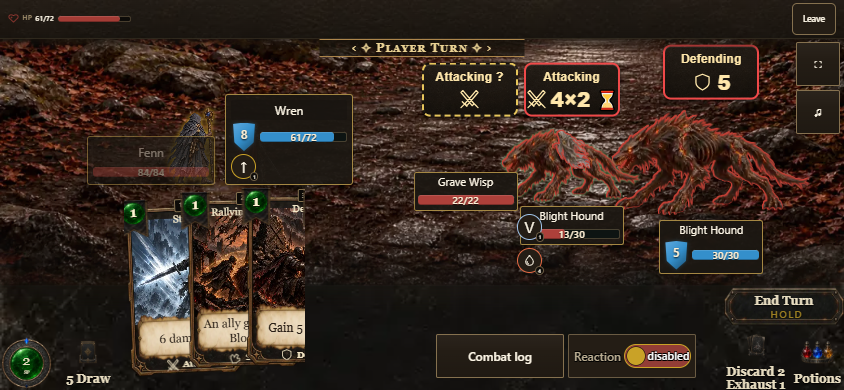
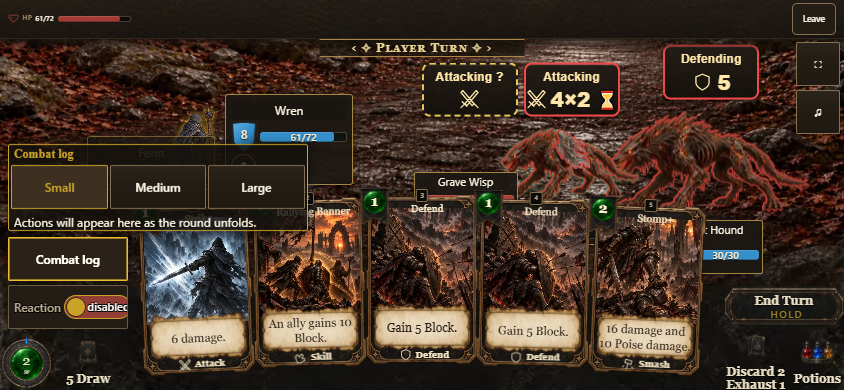
Keep landscape hands wide and the combat log onscreen

diff --git a/src/ui/components/combatTools.js b/src/ui/components/combatTools.js
@@ -36,19 +36,21 @@ export function mountCombatTools(combatEl, { state, onToggle, onViewChange }) {
     const style = getComputedStyle(root);
     const gap = parseFloat(style.getPropertyValue('--combat-tools-gap')) || 8;
     const compact = innerHeight <= 480 && innerWidth >= 600;
-    const width = compact ? 260 : parseFloat(style.getPropertyValue('--combat-tools-physical-width')) || 136;
+    const width = compact ? 120 : parseFloat(style.getPropertyValue('--combat-tools-physical-width')) || 136;
     const localWidth = anchorLocalBox(VIEWPORT_ORIGIN, { left: 0, top: 0, width, height: 0 }, { zoom });
     root.style.width = `${localWidth.width}px`;
-    const reserve = anchorLocalBox(VIEWPORT_ORIGIN, { left: 0, top: 0, width: width + gap + (compact ? 148 : 4), height: 0 }, { zoom });
+    // Short landscape already gives the hand left/right footer rails. Put the
+    // tools in the left rail instead of subtracting its width a second time.
+    const reserve = anchorLocalBox(VIEWPORT_ORIGIN, { left: 0, top: 0, width: compact ? 0 : width + gap + 4, height: 0 }, { zoom });
     combatEl.style.setProperty('--combat-tools-reserve', `${reserve.width}px`);
     const footerHost = combatEl.querySelector('.combat-action-row');
     const footer = footerHost?.getBoundingClientRect();
     // Landscape side rails span the whole hand. Dock above their actual
     // buttons, not the transparent container that reaches into the battlefield.
     const footerButtons = [...(footerHost?.querySelectorAll('button, [role="button"]') || [])]
-      .map(button=>button.getBoundingClientRect()).filter(rect=>rect.width && rect.height);
-    const bottom = compact ? combatEl.getBoundingClientRect().bottom - 12
-      : (footerButtons.length ? Math.min(...footerButtons.map(rect=>rect.top)) : footer?.top ?? innerHeight) - gap;
+      .map(button=>button.getBoundingClientRect()).filter(rect=>rect.width && rect.height
+        && (!compact || rect.left < innerWidth / 2));
+    const bottom = (footerButtons.length ? Math.min(...footerButtons.map(rect=>rect.top)) : footer?.top ?? innerHeight) - gap;
     const localDock = anchorLocalBox(combatEl, { left: 0, top: bottom - root.getBoundingClientRect().height, width: 0, height: 0 }, { zoom });
     root.style.top = `${localDock.top}px`;
     const menu = [...combatEl.querySelectorAll('.topbar button')].reduce((max, node) => Math.max(max, node.getBoundingClientRect().bottom), 0);

diff --git a/src/content/changelog.generated.js b/src/content/changelog.generated.js
@@ -8,7 +8,7 @@ export const GENERATED_CHANGELOG = Object.freeze([
     "group": "2026-10-09",
     "summary": "Attached enemy targets and visible player details",
     "detail": "Keep compact enemy selection cells on their sprites, shrink them before moving away, and preserve neighboring target order. Show enemy name and health below their bodies and place the player's name, level, health and live combat details beside the character, clear of cards. Pack co-op details without collisions and keep landscape combat tools out of targeting space.",
-    "build": "0.7.1.1182",
+    "build": "0.7.1.1184",
     "pullRequest": 1773,
     "url": "https://github.com/cehinds/AshenSpire/pull/1773"
   },

diff --git a/styles/combat-layers.css b/styles/combat-layers.css
@@ -125,6 +125,9 @@
 }
 @media (max-height: 480px) and (min-width: 600px) {
   :root .combat[data-layout='formation'] .combat-tools {
-    right: calc(148px / var(--ui-zoom,1)); grid-template-columns: 1fr 1fr;
+    right: auto; left: calc(8px / var(--ui-zoom,1)); grid-template-columns: 1fr;
+  }
+  :root .combat[data-layout='formation'] .combat-tools .combat-log-panel {
+    left: 0; right: auto;
   }
 }

diff --git a/docs/qa/attached-combat-details-20261009/README.md b/docs/qa/attached-combat-details-20261009/README.md
@@ -10,7 +10,7 @@ independent of these controls.
 
 Selection cells use 48–64 physical pixels, preserve enemy order and keep full
 accessible names/HP. Native button focus updates the shared keyboard cursor.
-Landscape tools use a compact lower row and reserve space in the hand scroller.
+Landscape tools use the left footer rail without subtracting the hand width twice.
 Clipped card overflow is not a visible collision.
 
 ## Review and verification
@@ -28,12 +28,22 @@ labels and plate reservation height. Final review found no actionable blocker.
 - The crowd fixture gives each cloned enemy a unique knowledge-action serial;
   duplicate serials are correctly rejected by the engine, not bypassed.
 
-Final package **0.7.1.1182**, source digest **e56f8d6209**, passed all 12
+Initial package **0.7.1.1182**, source digest **e56f8d6209**, passed all 12
 responsive layouts and legal keyboard card plays. The packaged phone run also
 passed three sequential card plays and empty-hand resize/draw stability. Reports
 and representative screenshots are stored beside this record. External art
 verification passed 314 checks, shipped-alias verification 12, build identity 9,
 and the PR receipt 2. Hosted checks and promotion are reported separately in the PR.
+
+The hosted 800x465 tutorial subsequently exposed a five-card hand collapse:
+subtracting the landscape dock's complete right offset left capacity for only
+one card, so all cards shared an x coordinate. The final correction places tools
+in the left footer rail and reserves no additional hand width. The unchanged
+Counter/Escape browser interaction then passed. Independent review verified
+five distinct cards, reachable controls, and an onscreen working log drawer at
+844x390 and 800x465. In very short co-op landscape, cards can still obscure some
+enemy name/HP plates according to the requested cards-over-selection layering;
+target buttons and player details remain reachable.
 The posed crowd uses 200 HP solely to survive interaction checks. Screenshots
 are test fixtures, not completed runs. Build, receipt, hosted checks, dev merge,
 architecture sync, test promotion and alternative sync are separate gates.

diff --git a/CHANGELOG.md b/CHANGELOG.md
@@ -34,7 +34,7 @@ A receipt here names the pull request that landed a change; inventing one to fit
 
 ## 2026-10-09
 
-- **Attached enemy targets and visible player details** ([#1773](https://github.com/cehinds/AshenSpire/pull/1773), `0.7.1.1182`). Keep compact enemy selection cells on their sprites, shrink them before moving away, and preserve neighboring target order. Show enemy name and health below their bodies and place the player's name, level, health and live combat details beside the character, clear of cards. Pack co-op details without collisions and keep landscape combat tools out of targeting space.
+- **Attached enemy targets and visible player details** ([#1773](https://github.com/cehinds/AshenSpire/pull/1773), `0.7.1.1184`). Keep compact enemy selection cells on their sprites, shrink them before moving away, and preserve neighboring target order. Show enemy name and health below their bodies and place the player's name, level, health and live combat details beside the character, clear of cards. Pack co-op details without collisions and keep landscape combat tools out of targeting space.
 
 ## 2026-10-08
 
